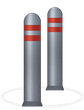
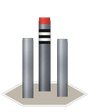
Pfosten-Ensemble nach Originalfoto: 3 Poller auf Betoninsel (v67)

diff --git a/kaufvertrag_demo.html b/kaufvertrag_demo.html
@@ -945,7 +945,7 @@ ende: pxSzene('#000010', (R,D)=>{
    Liegen im Repo PNGs mit diesen Namen, werden sie automatisch
    statt der Pixel-Programme geladen. Fehlen sie: Pixel-Fallback.
    ===================================================== */
-const BILD_VERSION = '66';
+const BILD_VERSION = '67';
 function vurl(u){ return u + '?v=' + BILD_VERSION; }
 const SZENEN_BILDER = {
   titel:'kaufvertrag_titel.png',
@@ -2631,7 +2631,7 @@ szeneEl.addEventListener('mouseout', (e)=>{
 function vordergrundSVG(key){
   if(key === 'titel'){
     /* Badge-Pfosten unten rechts – der Fiat faehrt hintendurch */
-    return '<image href="'+vurl('kaufvertrag_pfosten_vg.png')+'" x="558.8" y="170.9" width="34.5" height="45"/>';
+    return '<image href="'+vurl('kaufvertrag_pfosten_vg.png')+'" x="556.4" y="171.8" width="37.2" height="46.5"/>';
   }
   if(key !== 'schule') return '';
   return '<image href="'+vurl('kaufvertrag_pult_vg.png')+'" x="63.2" y="128.8" width="136" height="60.8"/>' +

diff --git a/kaufvertrag_fd642d69.html b/kaufvertrag_fd642d69.html
@@ -946,7 +946,7 @@ ende: pxSzene('#000010', (R,D)=>{
    Liegen im Repo PNGs mit diesen Namen, werden sie automatisch
    statt der Pixel-Programme geladen. Fehlen sie: Pixel-Fallback.
    ===================================================== */
-const BILD_VERSION = '66';
+const BILD_VERSION = '67';
 function vurl(u){ return u + '?v=' + BILD_VERSION; }
 const SZENEN_BILDER = {
   titel:'kaufvertrag_titel.png',
@@ -2927,7 +2927,7 @@ szeneEl.addEventListener('mouseout', (e)=>{
 function vordergrundSVG(key){
   if(key === 'titel'){
     /* Badge-Pfosten unten rechts – der Fiat faehrt hintendurch */
-    return '<image href="'+vurl('kaufvertrag_pfosten_vg.png')+'" x="558.8" y="170.9" width="34.5" height="45"/>';
+    return '<image href="'+vurl('kaufvertrag_pfosten_vg.png')+'" x="556.4" y="171.8" width="37.2" height="46.5"/>';
   }
   if(key !== 'schule') return '';
   return '<image href="'+vurl('kaufvertrag_pult_vg.png')+'" x="63.2" y="128.8" width="136" height="60.8"/>' +
